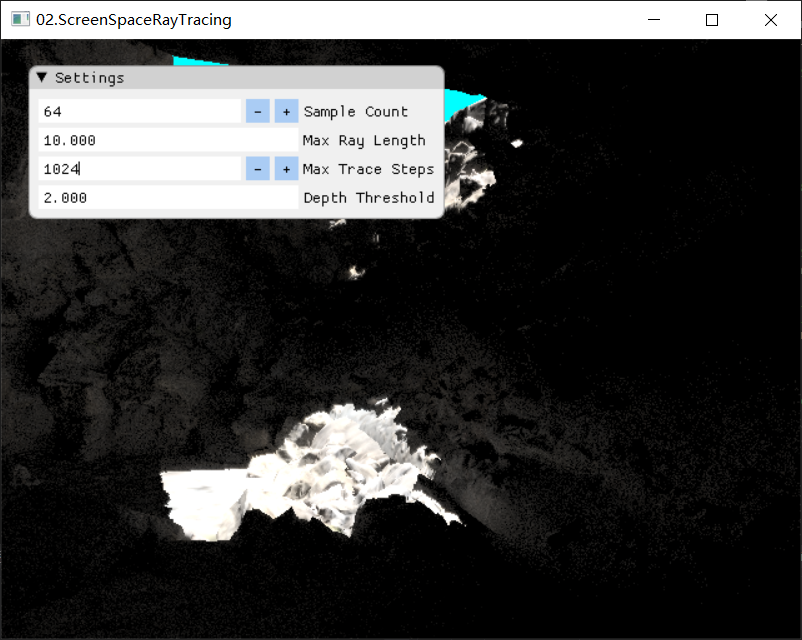
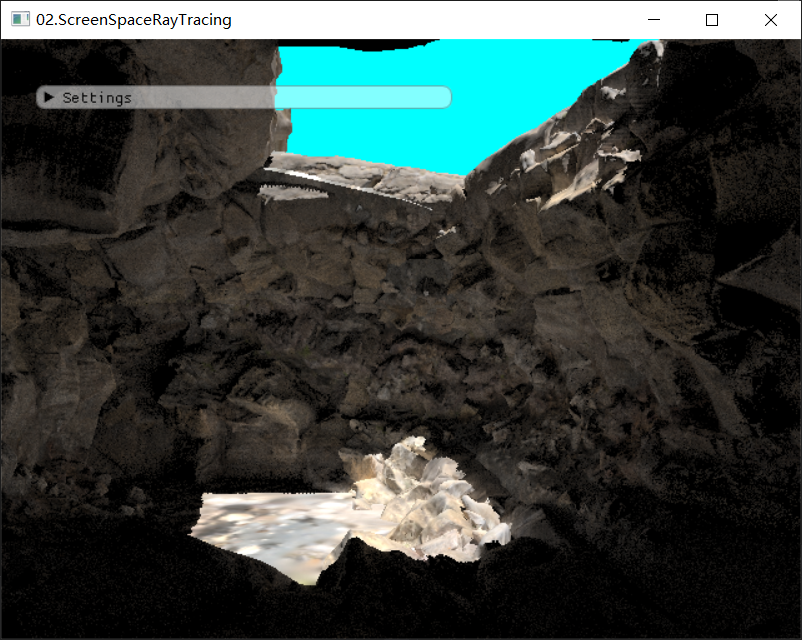
fix trace in indirect.hlsl; update README

diff --git a/src/02.SSRT/main.cpp b/src/02.SSRT/main.cpp
@@ -26,7 +26,7 @@ private:
         shadow_  .initialize({ 1024, 1024});
 
         indirect_.setSampleCount(sampleCount_);
-        indirect_.setTracer(maxTraceSteps_, maxRayLength_);
+        indirect_.setTracer(maxTraceSteps_);
         indirect_.setDepthThreshold(depthThreshold_);
 
         window_->attach([this](const WindowPostResizeEvent &e)
@@ -97,12 +97,10 @@ private:
                 indirect_.setSampleCount(sampleCount_);
             }
 
-            if(ImGui::InputInt("Max Trace Steps", &maxTraceSteps_) |
-               ImGui::InputFloat("Max Ray Length", &maxRayLength_))
+            if(ImGui::InputInt("Max Trace Steps", &maxTraceSteps_))
             {
                 maxTraceSteps_ = (std::max)(1, maxTraceSteps_);
-                maxRayLength_  = (std::max)(0.0f, maxRayLength_);
-                indirect_.setTracer(maxTraceSteps_, maxRayLength_);
+                indirect_.setTracer(maxTraceSteps_);
             }
 
             if(ImGui::InputFloat("Depth Threshold", &depthThreshold_))
@@ -122,8 +120,8 @@ private:
         // light
         
         DirectionalLight light = {};
-        light.direction = Float3(0, -2, 0).normalize();
-        light.radiance  = Float3(8);
+        light.direction = Float3(0, -2, -0.4f).normalize();
+        light.radiance  = Float3(5);
 
         const Float3 lightLookAt = { 0, 0, 0 };
         const Mat4 lightViewProj =
@@ -252,9 +250,8 @@ private:
     bool enableIndirect_ = true;
 
     int   sampleCount_    = 16;
-    int   maxTraceSteps_  = 256;
-    float maxRayLength_   = 10;
-    float depthThreshold_ = 2;
+    int   maxTraceSteps_  = 128;
+    float depthThreshold_ = 4;
 
     Camera camera_;
 

diff --git a/src/02.SSRT/indirect.h b/src/02.SSRT/indirect.h
@@ -14,7 +14,7 @@ public:
 
     void setSampleCount(int sampleCount);
 
-    void setTracer(int maxSteps, float maxRayLength);
+    void setTracer(int maxSteps);
 
     void setDepthThreshold(float threshold);
 
@@ -36,13 +36,13 @@ private:
 
         uint32_t sampleCount;
         uint32_t maxTraceSteps;
-        float    maxTraceLength;
+        float    depthThreshold;
         float    projNearZ;
 
         float outputWidth;
         float outputHeight;
-        float depthThreshold;
         float pad0;
+        float pad1;
     };
 
     Shader<VS, PS>         shader_;

diff --git a/src/02.SSRT/indirect.cpp b/src/02.SSRT/indirect.cpp
@@ -59,10 +59,9 @@ void IndirectRenderer::setSampleCount(int sampleCount)
     updateRawSamples();
 }
 
-void IndirectRenderer::setTracer(int maxSteps, float maxRayLength)
+void IndirectRenderer::setTracer(int maxSteps)
 {
     indirectParamsData_.maxTraceSteps  = maxSteps;
-    indirectParamsData_.maxTraceLength = maxRayLength;
 }
 
 void IndirectRenderer::setDepthThreshold(float threshold)
